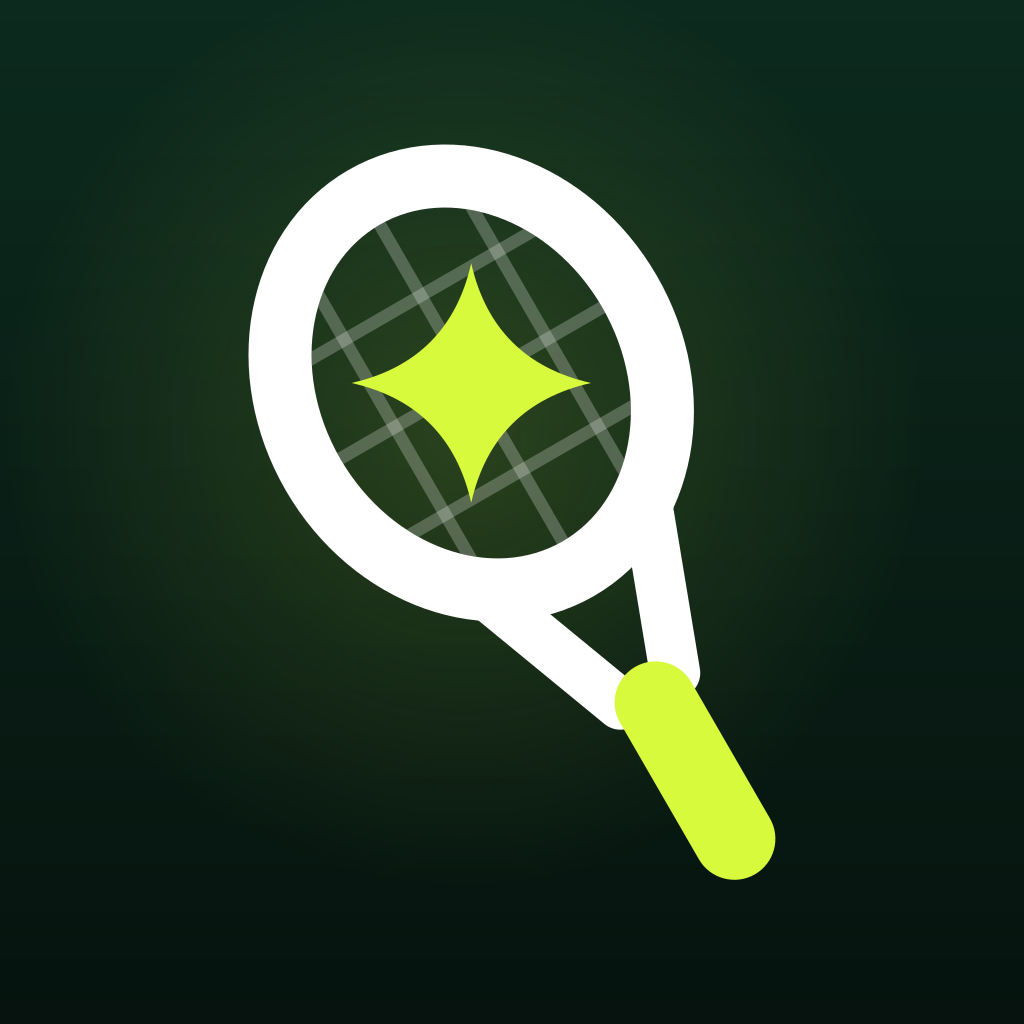
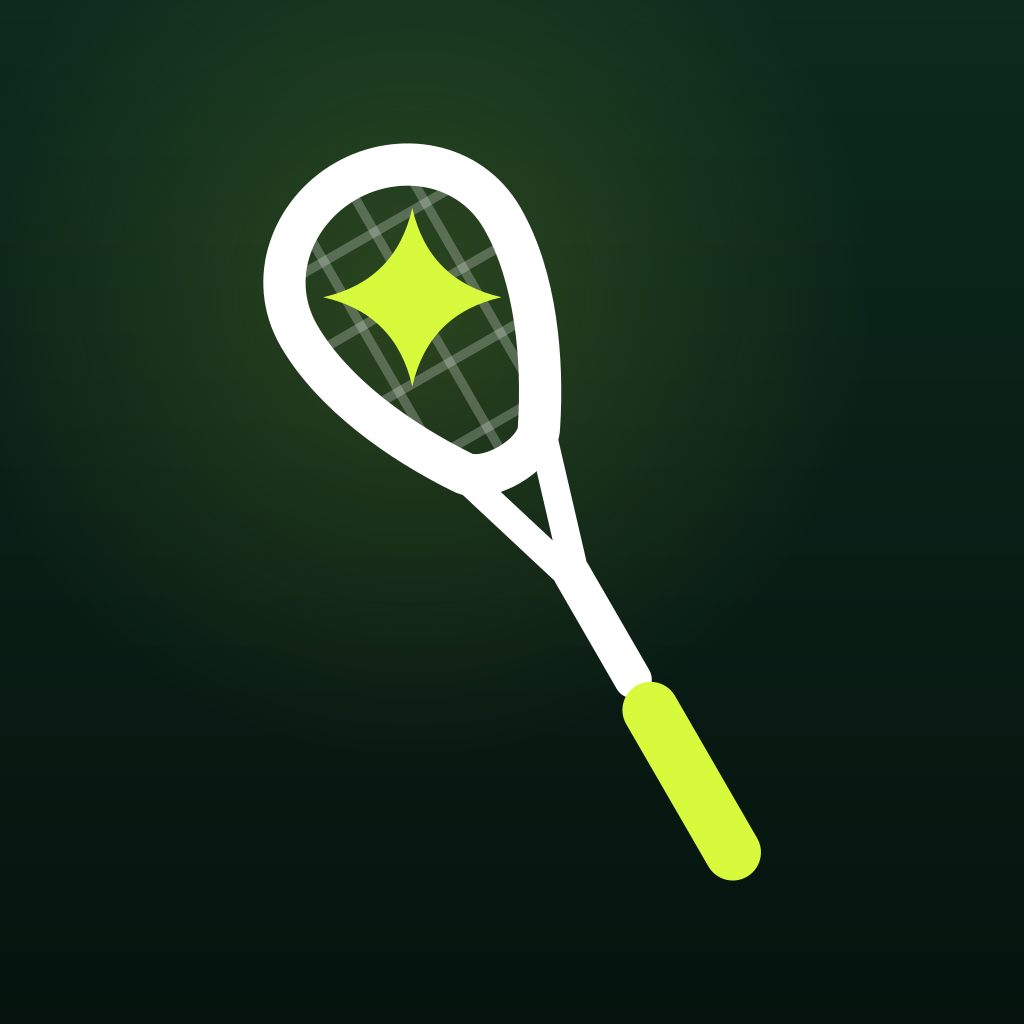
brand: squash head geometry — teardrop mark, regenerated assets
Squash clubs are the beachhead, but the mark was a tennis racquet: a wide
round head on a stubby handle. A wide round head reads as tennis no matter
what the app is called, so the head geometry is now unambiguously squash.

Three changes carry it, and the third is the one that survives small sizes:
  - teardrop head — widest a third of the way down from the apex, tapering
    into a narrow throat, replacing the symmetric ellipse;
  - head is 45% of the racquet's length, down from 60%, which shrinks the
    stringing area with it;
  - a long thin Chalk shaft between throat and grip, which squash has and
    tennis does not.

Palette and the AI spark are untouched: same Chalk/Optic hexes, same 4-point
star at r 76, still counter-rotated +30 so it stays upright. The spark moved
to the sweet spot at y -130 because a teardrop's stringing area is widest
above centre, and that is the only place it clears the frame at r 76. The
string bed gained a fourth row for the same reason — three left the taper
visibly empty.

Scale and translate are re-derived, not nudged: each master's ink box is
measured by rendering at scale 1 and trimming, then solved so the box keeps
the height it had (400 / 368.6 / 327.7 on the 512 grid) centred on (256,256).
That holds the adaptive safe-zone arithmetic and every downstream consumer.
The lockup narrowed 1161 -> 1152 so its 72-unit clear space still lands
exactly, and the clear-space rule is restated as a quarter of the mark's box
[…]

Changed region(s): [[0.2188, 0.125, 0.7812, 0.8438], [0.6562, 0.7812, 0.6875, 0.8438], [0.625, 0.75, 0.6562, 0.7812]]

diff --git a/docs/04-branding.md b/docs/04-branding.md
@@ -75,9 +75,9 @@ by `DynamicColorIOS`. Android pins the dark column (see the note in that file).
 | `surfaceWhite` | `#FFFFFF` (both) | |
 | `inkOnWhite` | `#06130E` (both) | |
 
-`accent` is the one token that does **not** flip: a tennis ball is the same
-colour in both themes, and Optic holds up as a *fill* on either canvas. It is
-only as text that it breaks, which is what `accentText` exists for.
+`accent` is the one token that does **not** flip: the ball under floodlight is
+the same colour in both themes, and Optic holds up as a *fill* on either canvas.
+It is only as text that it breaks, which is what `accentText` exists for.
 
 ### Contrast
 
@@ -114,30 +114,58 @@ is what `textDim` is for.
 
 ## 3. The mark — "Ace Spark"
 
-A geometric racquet seen head-on and tilted, with a four-point AI spark sitting
-at the sweet spot where the strings cross. The racquet says which sport; the
-spark says the software is watching. Optic appears exactly twice — the grip and
-the spark — so the eye travels the diagonal between them.
+A geometric **squash** racquet seen head-on and tilted, with a four-point AI
+spark sitting at the sweet spot where the strings cross. The racquet says which
+sport; the spark says the software is watching. Optic appears exactly twice —
+the grip and the spark — so the eye travels the diagonal between them.
+
+### Why the head is a teardrop
+
+Squash clubs are the beachhead, so the silhouette has to name the sport before
+anyone reads the app's name. A wide round head reads as tennis no matter what
+is written under it, and that is what the mark used to be. Three changes fix
+it, and none of them is a detail:
+
+1. **A teardrop head**, widest about a third of the way down from the apex and
+   tapering into a narrow throat — not a symmetric oval.
+2. **A smaller head relative to the racquet**: 45% of the total length, where
+   the tennis head was 60%. This is the proportion the eye actually reads.
+3. **A long thin shaft** between throat and grip. This is the strongest cue at
+   small sizes, because it survives long after the string bed has mushed.
+
+The stringing area shrank with the head, which is also true of the real thing.
 
 ### Construction
 
-Drawn on a **512 × 512** grid. Ink box is **287 × 400** (78% of the grid tall),
+Drawn on a **512 × 512** grid. Ink box is **270 × 400** (78% of the grid tall),
 centred on (256, 256) to the pixel.
 
 | Element | Geometry |
 | --- | --- |
-| Head | ellipse, centre (0,−96), rx 116, ry 136, stroke 40, Chalk |
-| String bed | 3 × 3 lines, stroke 8 at 24% Chalk, clipped to the head's inner ellipse (rx 96, ry 116) |
-| Throat | two struts leaving the head at ±32°, stroke 32, round caps, Chalk |
-| Grip | 52 × 152 pill, radius 26, **Optic** |
-| Spark | 4-point star, r 76, **Optic**, counter-rotated +30° so it stays upright |
-| Whole mark | rotated **−30°**, uniform scale 0.855 |
+| Head | teardrop path: apex (0,−244), widest ±100 at y −150, narrowing to ±38 at y 20 and closing across a rounded bottom, stroke 36, Chalk |
+| String bed | 3 columns × 4 rows, stroke 8 at 24% Chalk, clipped to the head's inner outline |
+| Throat | two struts leaving the head flanks at (±44, 6) and converging on (±5, 134), stroke 24, round caps, Chalk |
+| Shaft | 32 × 136 pill, radius 16, Chalk |
+| Grip | 48 × 188 pill, radius 24, **Optic** |
+| Spark | 4-point star, r 76, on the sweet spot (0,−130), **Optic**, counter-rotated +30° so it stays upright |
+| Whole mark | rotated **−30°**, uniform scale 0.637 |
 
-The outer translate in the SVG is `277.5 261.5`, not `256 256`. That is
+The outer translate in the SVG is `243.3 211.2`, not `256 256`. That is
 deliberate: the racquet is a diagonal shape, so its tight ink box is not
 centred on its own rotation origin. The offset makes the ink box land dead
 centre, which is what lets every downstream asset scale the file about its
-centre and trust the result.
+centre and trust the result. Both the scale and the translate are *measured* —
+render the geometry at scale 1, trim, and solve for the pair that puts a
+400-tall ink box on centre — so changing the geometry means re-deriving them,
+not nudging them.
+
+The **fourth string row** is new with the teardrop. Three rows left the lower
+third of the head visibly empty, because a teardrop keeps stringing down into
+the taper where an ellipse has already closed.
+
+The **sweet spot sits at y −130**, above the head's mid-point. That is where a
+teardrop's stringing area is widest, where a squash player's contact point
+actually is, and the only place the spark clears the frame at r 76.
 
 The spark is counter-rotated so that it reads as a *spark* (upright, symmetric)
 rather than as a tilted diamond. This is the one place the mark breaks its own
@@ -145,17 +173,22 @@ rotation, and it is intentional.
 
 ### Clear space
 
-**Clear space = the height of the spark**, on all four sides. At lockup scale
-that is 72 units. Nothing enters it: no type, no canvas edge, no photo, no UI
-chrome. It is also the gap between the mark and the wordmark, which is why the
-lockup feels like one object rather than two.
+**Clear space = a quarter of the mark's box**, on all four sides — 72 units at
+lockup scale, where the mark is nested at 288. Nothing enters it: no type, no
+canvas edge, no photo, no UI chrome. It is also the gap between the mark and
+the wordmark, which is why the lockup feels like one object rather than two.
+
+(This rule used to be stated as "the height of the spark", which was true of
+the tennis mark by coincidence. The squash mark is leaner, so its spark is
+smaller relative to the box; the quarter-of-the-box derivation is exact and
+survives geometry changes, so it is the one to keep.)
 
 ### Minimum sizes
 
 | Use | Minimum |
 | --- | --- |
-| Full-colour mark | 32 px — below this the string bed turns to mush; use the mono mark |
-| Monochrome mark | 20 px |
+| Full-colour mark | 32 px — the string bed only resolves above ~48 px, so below that the mark is carried by the silhouette alone |
+| Monochrome mark | 24 px — the leaner squash shaft goes sub-pixel below this, where the tennis mark held to 20 px |
 | Horizontal lockup | 160 px wide — below this drop the wordmark and use the mark alone |
 
 ### On light surfaces
@@ -283,12 +316,16 @@ config plugin and delete the block.
 
 ```bash
 node scripts/generate-assets.mjs          # render every PNG, then verify it
-node scripts/generate-assets.mjs --check   # verify the masters only, write nothing
+node scripts/generate-assets.mjs --check   # verify masters + committed PNGs, write nothing
 ```
 
 The script renders each deliverable, reads it back, and asserts size, colour
 type, alpha, and silhouette purity, plus the geometry-drift check across the
 masters. It exits non-zero on any failure, so it is safe to wire into CI.
+
+`--check` runs the same assertions against the **committed** PNGs instead of
+freshly rendered ones, so it catches a tree whose binaries are stale, hand
+edited, or re-saved with an alpha channel — without touching the working tree.
 
 To change something:
 
